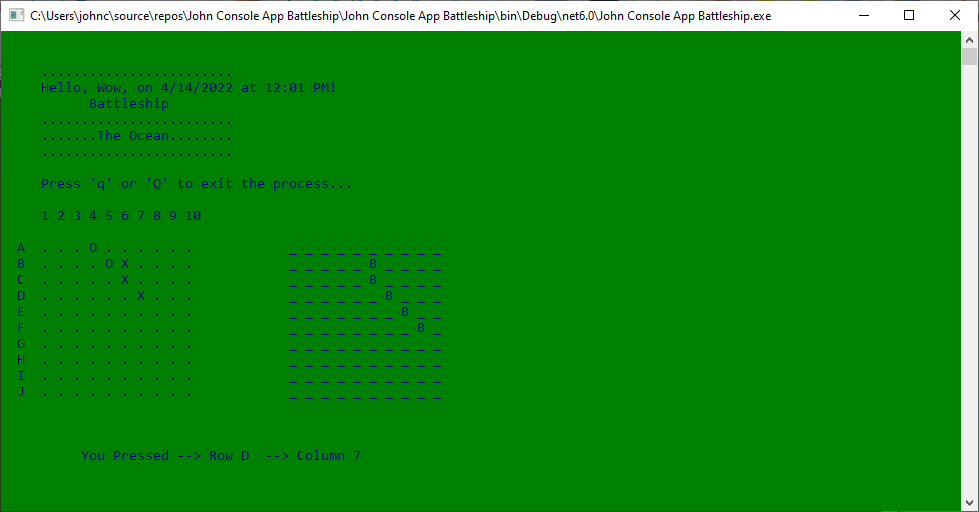
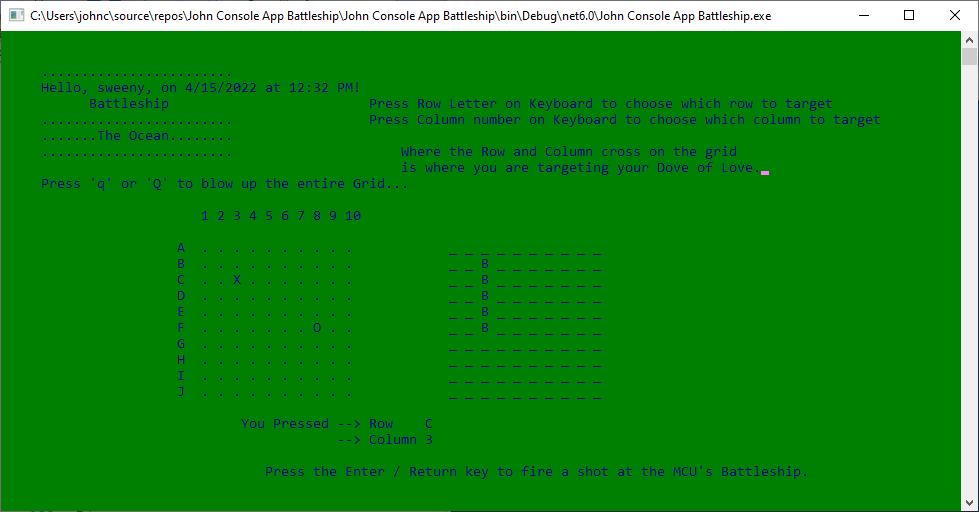
Screen looks like I want and has information on how to play.  Next is refactor Display Input for gathering Actor's key strokes.

diff --git a/John Console App Battleship/Program.cs b/John Console App Battleship/Program.cs
@@ -15,21 +15,18 @@ class Program
             UserBattleShipGrid userBattleShipGrid = new UserBattleShipGrid(battleShipGrid.getNumberColumns(), 
                                                                             battleShipGrid.getNumberRows());
 
-            // battleShipDisplay.WriteStringToPoint("Calling battleShipDisplay.setGridLocation(15, 21)", 30, 3);
-            
-            battleShipDisplay.setGridLocation(battleShipDisplay.GetHeaderLeft(), battleShipDisplay.GetHeaderTop() + 11);
-
-            // battleShipDisplay.WriteStringToPoint("Done with battleShipDisplay.setGridLocation(15, 21)", 30, 4);
+            battleShipDisplay.setGridLocation(battleShipDisplay.GetHeaderLeft() + 20, battleShipDisplay.GetHeaderTop() + 11);
 
             battleShipDisplay.WriteStringLine(" ");
-            battleShipDisplay.WriteStringLine(" ");
+            battleShipDisplay.WriteStringLine("    TOP SECRET");
+            battleShipDisplay.WriteStringLine("                     -  Our fate rests at your finger tips...");
             battleShipDisplay.WriteStringLine(" ");
             battleShipDisplay.WriteStringLine("The Battleship has been hidden behind an invisible cloak by Master CPU!");
             battleShipDisplay.WriteStringLine(" ");
             battleShipDisplay.WriteStringLine("     You must find it and sink it...");
             battleShipDisplay.WriteStringLine(" ");
 
-            battleShipDisplay.WriteString("Type Your Name In : ");
+            battleShipDisplay.WriteString("       Type In Your Code Name Call Sign In : ");
 
             battleShipInput.ReadLineFromActor();
 
@@ -56,7 +53,7 @@ class Program
                 battleShipDisplay.WriteHeaderLine(".......The Ocean........", 0, 4);
                 battleShipDisplay.WriteHeaderLine("........................", 0, 5);
 
-                battleShipDisplay.WriteHeaderLine("Press 'q' or 'Q' to exit the process...", 0, 7);
+                battleShipDisplay.WriteHeaderLine("Press 'q' or 'Q' to blow up the entire Grid...", 0, 7);
 
                 battleShipDisplay.WriteStringToPoint("1 2 3 4 5 6 7 8 9 10", battleShipDisplay.GetGridLeft(), battleShipDisplay.GetGridTop() - 2);
 
@@ -103,21 +100,24 @@ class Program
                     }  // for column
                 }  // for row
 
-                battleShipDisplay.WriteStringToPoint($"  You Pressed --> Row    {userBattleShipGrid.PlayerRow}",
+                string actorRowString    = (userBattleShipGrid.PlayerRow == '_') ? "Type in You Row Letter" : userBattleShipGrid.PlayerRow.ToString() ;
+                string actorColumnString = (userBattleShipGrid.PlayerColumn == -99) ? "Type in Your Column number, for 10 type in a 0 (zero)" : userBattleShipGrid.PlayerColumn.ToString();
+
+                battleShipDisplay.WriteStringToPoint($"  You Pressed --> Row    {actorRowString}",
                                                         battleShipDisplay.GetInformationLeft(), battleShipDisplay.GetInformationTop() - 2 );
-                battleShipDisplay.WriteStringToPoint($"              --> Column {userBattleShipGrid.PlayerColumn}",
+                battleShipDisplay.WriteStringToPoint($"              --> Column {actorColumnString}",
                                                         battleShipDisplay.GetInformationLeft(), battleShipDisplay.GetInformationTop() - 1);
                 battleShipDisplay.WriteStringToPoint("  ", battleShipDisplay.GetInformationLeft() + 1, battleShipDisplay.GetInformationTop() + 1);
                 battleShipDisplay.WriteStringToPoint("          Press the Enter / Return key to fire a shot at the MCU's Battleship.", battleShipDisplay.GetInformationLeft() - 5, battleShipDisplay.GetInformationTop() + 1);
 
                 battleShipDisplay.WriteStringToPoint("Press Row Letter on Keyboard to choose which row to target", 
-                                                        battleShipDisplay.GetErrorLeft() + 24, battleShipDisplay.GetErrorTop() - 8);
+                                                        battleShipDisplay.GetErrorLeft() , battleShipDisplay.GetErrorTop() - 9);
                 battleShipDisplay.WriteStringToPoint("Press Column number on Keyboard to choose which column to target",
-                                                        battleShipDisplay.GetErrorLeft() + 24, battleShipDisplay.GetErrorTop() - 7);
+                                                        battleShipDisplay.GetErrorLeft() , battleShipDisplay.GetErrorTop() - 8);
                 battleShipDisplay.WriteStringToPoint("Where the Row and Column cross on the grid", 
-                                                        battleShipDisplay.GetErrorLeft() + 30, battleShipDisplay.GetErrorTop() - 5);
+                                                        battleShipDisplay.GetErrorLeft() + 4, battleShipDisplay.GetErrorTop() - 6);
                 battleShipDisplay.WriteStringToPoint("is where you are targeting your Dove of Love.",
-                                                        battleShipDisplay.GetErrorLeft() + 30, battleShipDisplay.GetErrorTop() - 4);
+                                                        battleShipDisplay.GetErrorLeft() + 4, battleShipDisplay.GetErrorTop() - 5);
 
                 battleShipInput.ReadCharFromActor();
                 

diff --git a/John Console App Battleship/classes/UserBattleShipGrid.cs b/John Console App Battleship/classes/UserBattleShipGrid.cs
@@ -13,6 +13,10 @@ public class UserBattleShipGrid {
     public UserBattleShipGrid(int numberColums, int numberRows) {
         _numberCols = numberColums;
         _numberRows = numberRows;
+
+        PlayerRow = '_';
+        PlayerColumn = -99;
+
         _MissChar = 'O';
 
         _RowNumbers.Add('A');
@@ -36,7 +40,7 @@ public class UserBattleShipGrid {
 
     }
 
-    public char PlayerRow { get; private set; }
+    public char PlayerRow { get ;  private set ; }
 
     public int  PlayerColumn { get; private set; }
 
